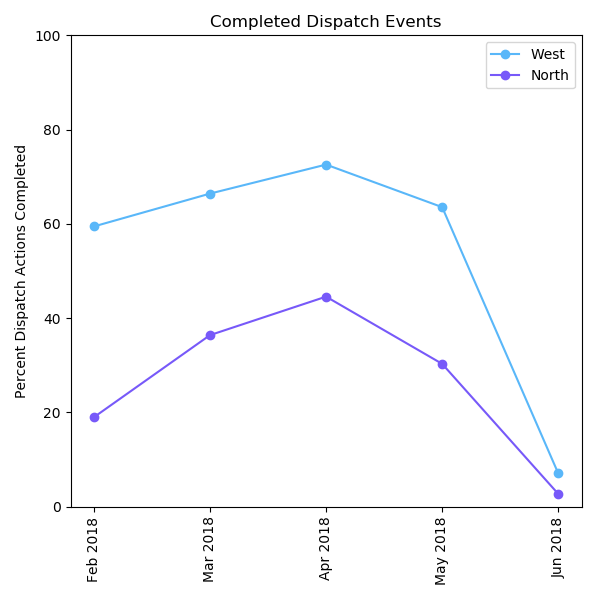
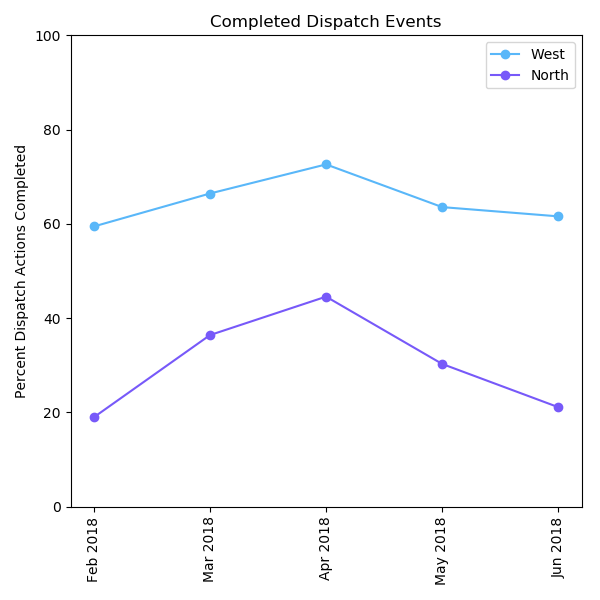
rerunning completion rates

diff --git a/dispatch.py b/dispatch.py
@@ -301,8 +301,8 @@ if __name__ == '__main__':
 						'id', 'Action Type - No count',
 						'Action Type 1', 'CommentAction']])
 
-	# dispatch_rate(df[['BusinessUnit', 'CalcDate',
-	# 				  'Job_Rank', 'Action Type - No count']])
+	dispatch_rate(df[['BusinessUnit', 'CalcDate',
+					  'Job_Rank', 'Action Type - No count']])
 
 	# dispatch_deferment(df.loc[df['PriorityLevel'] != 0,
 	# 					 ['PriorityLevel', 'DefermentGas', 'BusinessUnit',
